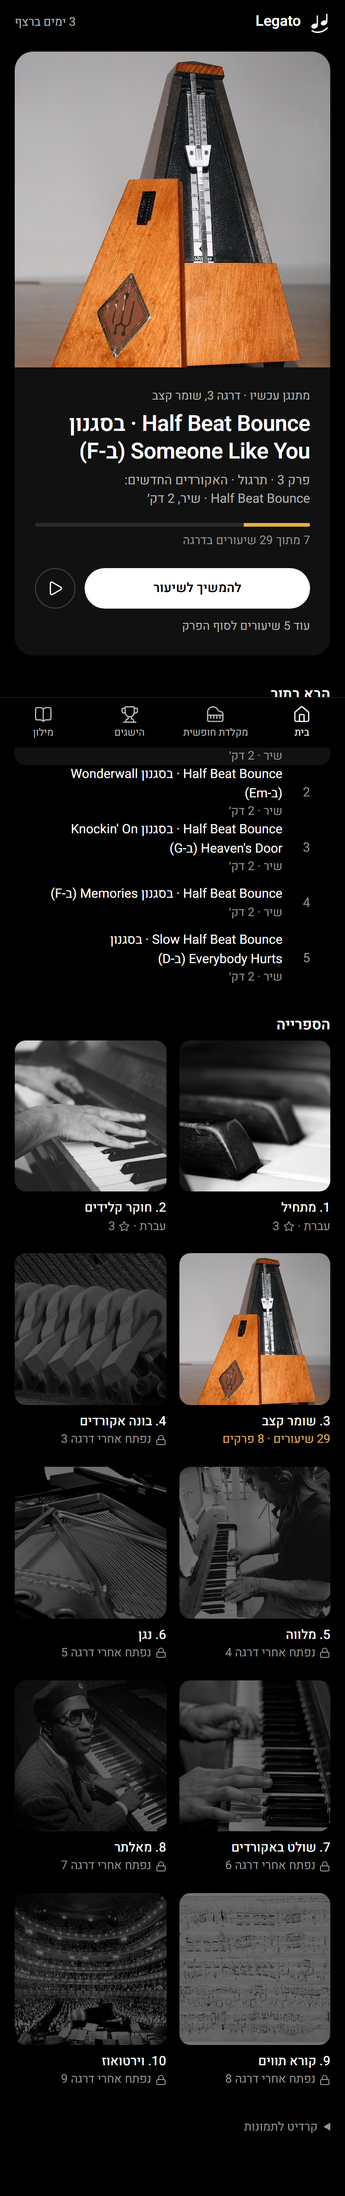
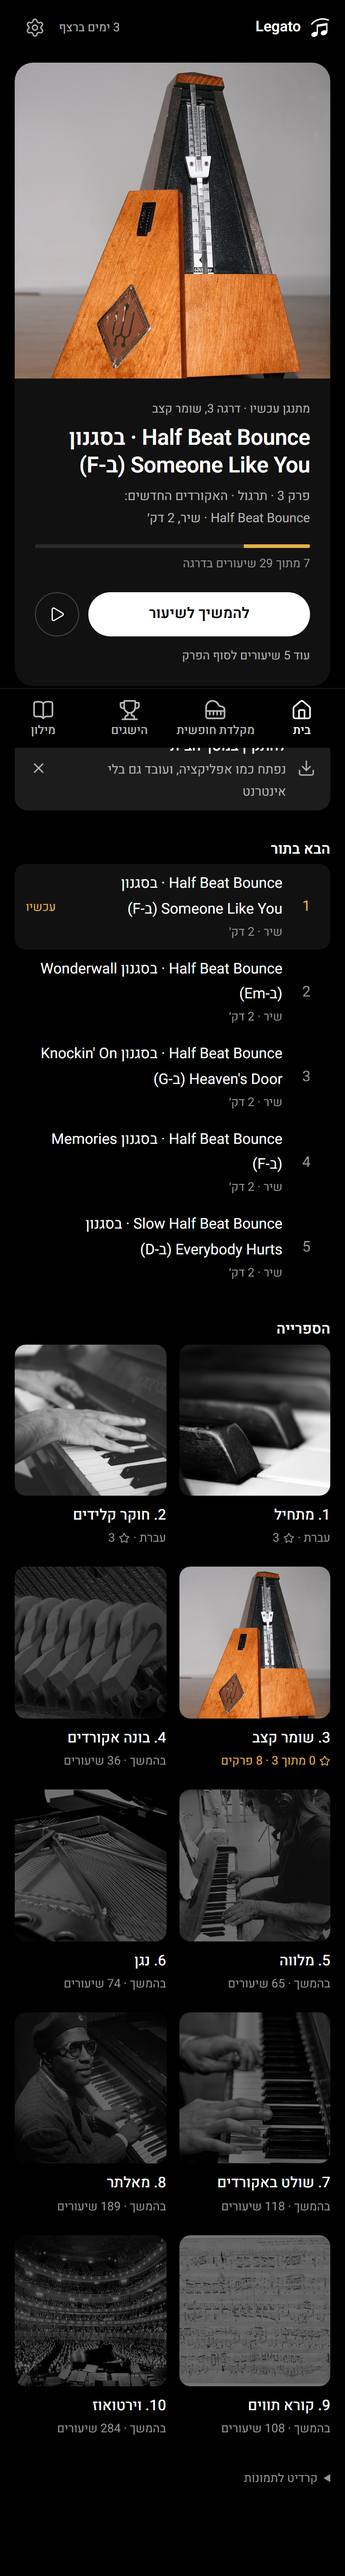
Night: every screen

diff --git a/index.html b/index.html
@@ -3,7 +3,7 @@
 <head>
 <meta charset="utf-8">
 <meta name="viewport" content="width=device-width, initial-scale=1">
-<title>Legato · לילה, שלב 1</title>
+<title>Legato · לילה</title>
 <style>
   body { margin: 0; background: #000; color: #fff; font: 16px/1.5 system-ui, -apple-system, "Segoe UI", sans-serif; }
   main { max-width: 1100px; margin: 0 auto; padding: 24px 16px 48px; }
@@ -15,42 +15,66 @@
   .shots { display: grid; gap: 14px; grid-template-columns: 1fr 1fr; align-items: start; }
   .one { grid-template-columns: 1fr; }
   img { width: 100%; display: block; border-radius: 14px; background: #111; }
-  a { color: #e2b04a; }
+  a { color: #fff; }
   @media (min-width: 800px) { .shots { grid-template-columns: repeat(4, 1fr); } }
 </style>
 </head>
 <body>
 <main>
-  <h1>לילה · שלב 1</h1>
-  <p class="sub">כל האתר בצבעים ובגופן של לילה, ומסך הבית החדש. שאר המסכים כבר בצבעים החדשים, ויקבלו עיצוב משלהם בשלבים הבאים.</p>
+  <h1>לילה · כל האתר</h1>
+  <p class="sub">כל השלבים בוצעו. באמצע דרגה 3, עם רצף והתקדמות אמיתיים.</p>
 
   <section>
     <h2>מסך הבית</h2>
-    <p class="line">באמצע דרגה 3. "מתנגן עכשיו", הבא בתור, והספרייה של עשר הדרגות.</p>
-    <div class="shots one"><img src="night1-home-full.png" alt="מסך הבית, כל הגלילה"></div>
+    <p class="line">מתנגן עכשיו, הבא בתור, והספרייה של עשר הדרגות.</p>
+    <div class="shots one"><img src="night-home-full.png" alt="מסך הבית, כל הגלילה"></div>
   </section>
 
   <section>
     <h2>מצבים של מסך הבית</h2>
-    <p class="line">מימין לשמאל: באמצע דרגה · דרגה שנגמרה ומחכה למבחן (שורת המבחן מתחת ל"מתנגן עכשיו") · חשבון חדש.</p>
+    <p class="line">באמצע דרגה · דרגה שנגמרה ומחכה למבחן · חשבון חדש.</p>
     <div class="shots">
-      <img src="night1-home.png" alt="באמצע דרגה">
-      <img src="night1-home-exam.png" alt="מבחן מחכה">
-      <img src="night1-home-new.png" alt="חשבון חדש">
+      <img src="night-home.png" alt="באמצע דרגה">
+      <img src="night-home-exam.png" alt="מבחן מחכה">
+      <img src="night-home-new.png" alt="חשבון חדש">
     </div>
   </section>
 
   <section>
-    <h2>שאר המסכים, בצבעים החדשים</h2>
-    <p class="line">שיעור הסבר · שיר · הישגים · מילון · מקלדת חופשית · הגדרות (בלי בחירת מצב בהיר/כהה: יש עכשיו מצב אחד).</p>
+    <h2>שיעור ושיר</h2>
+    <p class="line">כותרת עם עטיפת הדרגה · עצירה קטנה · שיר · סוף שיעור.</p>
     <div class="shots">
-      <img src="night1-lesson.png" alt="שיעור" loading="lazy">
-      <img src="night1-song.png" alt="שיר" loading="lazy">
-      <img src="night1-achievements.png" alt="הישגים" loading="lazy">
-      <img src="night1-glossary.png" alt="מילון" loading="lazy">
-      <img src="night1-piano.png" alt="מקלדת חופשית" loading="lazy">
-      <img src="night1-settings.png" alt="הגדרות" loading="lazy">
+      <img src="night-lesson.png" alt="שיעור" loading="lazy">
+      <img src="night-lesson-stop.png" alt="עצירה קטנה" loading="lazy">
+      <img src="night-song.png" alt="שיר" loading="lazy">
+      <img src="night-complete.png" alt="סוף שיעור" loading="lazy">
     </div>
+  </section>
+
+  <section>
+    <h2>מבחן ועליית דרגה</h2>
+    <p class="line">פתיחת המבחן כמו עמוד של אלבום · שאלה · עליית דרגה.</p>
+    <div class="shots">
+      <img src="night-exam-intro.png" alt="פתיחת מבחן" loading="lazy">
+      <img src="night-exam-question.png" alt="שאלה במבחן" loading="lazy">
+      <img src="night-rankup.png" alt="עליית דרגה" loading="lazy">
+    </div>
+  </section>
+
+  <section>
+    <h2>שאר המסכים</h2>
+    <p class="line">הישגים · מילון · מקלדת חופשית · הגדרות.</p>
+    <div class="shots">
+      <img src="night-achievements.png" alt="הישגים" loading="lazy">
+      <img src="night-glossary.png" alt="מילון" loading="lazy">
+      <img src="night-piano.png" alt="מקלדת חופשית" loading="lazy">
+      <img src="night-settings.png" alt="הגדרות" loading="lazy">
+    </div>
+  </section>
+
+  <section>
+    <h2>במחשב</h2>
+    <div class="shots one"><img src="night-home-desktop.png" alt="מסך הבית במחשב" loading="lazy"></div>
   </section>
 
   <p class="sub"><a href="trials.html">שלושת הכיוונים שהשווינו</a></p>
